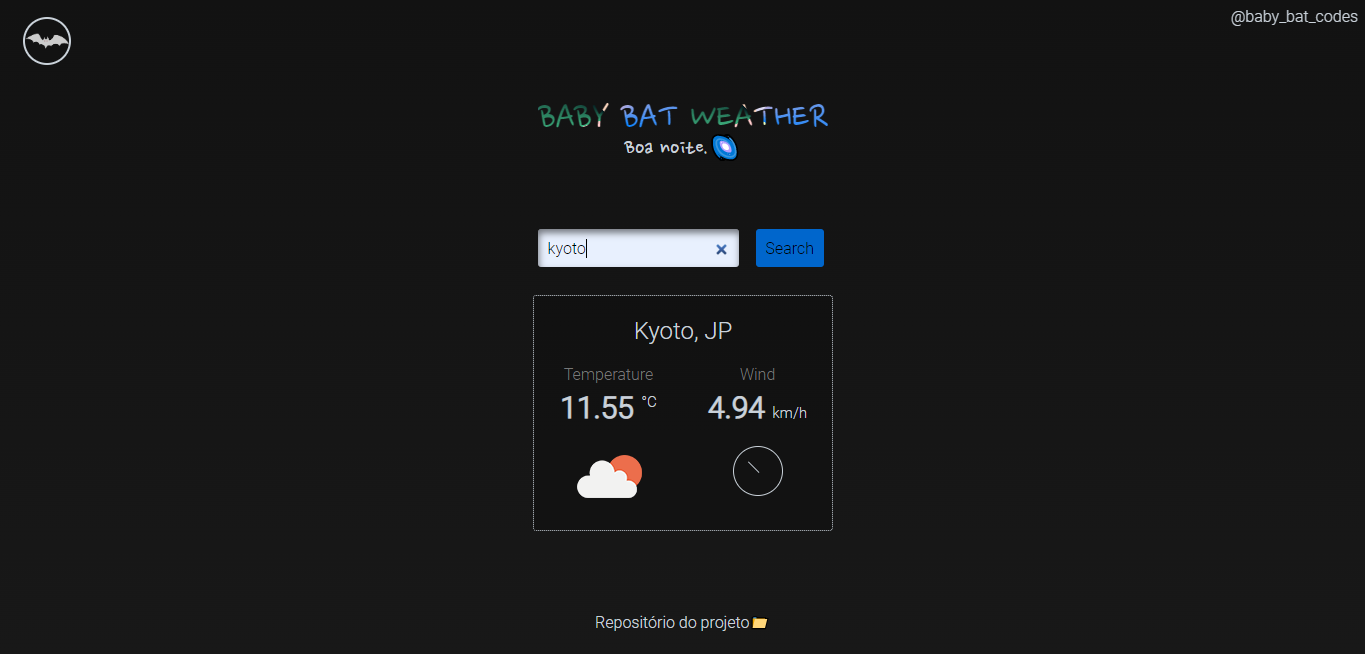
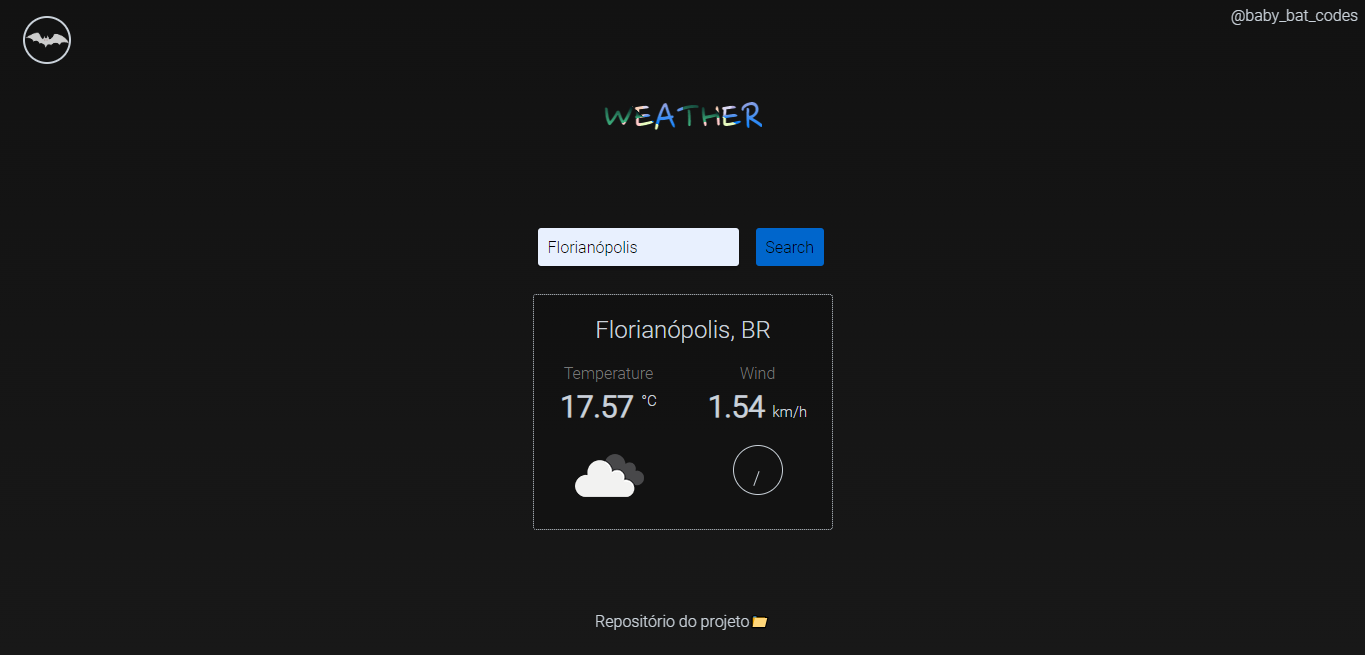
Add files via upload

diff --git a/index.html b/index.html
@@ -49,7 +49,24 @@
         >
       </div>
 
-      <h1 class="gradient-text">WEATHER</h1>
+      <h1 class="gradient-text">BABY BAT WEATHER</h1>
+
+      <div class="salutation">
+        <script language="JavaScript">
+          now = new Date();
+            if (now.getHours() >= 0 && now.getHours() < 5) {
+              document.write("BOA MADRUGADA.☄");
+            } else if (now.getHours() >= 5 && now.getHours() < 12) {
+              document.write("BOM DIA.🌅");
+            } else if (now.getHours() >= 13 && now.getHours() < 17) {
+              document.write("BOA TARDE.⛱");
+            } else if (now.getHours() >= 17 && now.getHours() < 18) {
+              document.write("BOA TARDE.🌇");
+            } else {
+              document.write("Boa noite.🌌");
+            }
+        </script>
+      </div>
 
       <form class="busca">
         <input type="search" id="searchInput" />

diff --git a/css/style.css b/css/style.css
@@ -117,7 +117,7 @@ h1 {
   left: 50%;
   margin-right: -50%;
   transform: translate(-50%);
-  font-size: 3rem;
+  font-size: 2.6rem;
   font-weight: 300;
   font-family: "Nanum Pen Script", cursive;
   line-height: 20vmin;
@@ -178,6 +178,17 @@ h1 {
     background-size: 50%;
     background-position: 0 0;
   }
+}
+
+.salutation {
+  position: absolute;
+  top: 20vh;
+  left: 50%;
+  font-family: "Nanum Pen Script", cursive;
+  font-size: 1.5rem;
+  font-weight: 400;
+  margin-right: -50%;
+  transform: translate(-50%);
 }
 
 .busca {
@@ -320,15 +331,6 @@ h1 {
   100% {
     opacity: 1;
   }
-}
-
-/* Aplica a animação ao objeto */
-.github {
-  animation-name: animacao;
-  animation-duration: 2s;
-  animation-delay: 4s; /* Define um atraso de 2 segundos */
-  opacity: 0; /* Define a opacidade inicial como 0 */
-  animation-fill-mode: forwards;
 }
 
 .github .repository {

diff --git a/js/scrollreveal.js b/js/scrollreveal.js
@@ -1,7 +1,7 @@
 ScrollReveal({ reset: true });
 
 ScrollReveal().reveal(".inboxbaby_bat_codes", {
-  duration: 4000,
+  duration: 3000,
   delay: 4000,
 });
 
@@ -10,7 +10,17 @@ ScrollReveal().reveal(".gradient-text", {
   delay: 1000,
 });
 
+ScrollReveal().reveal(".salutation", {
+  duration: 2000,
+  delay: 1000,
+});
+
 ScrollReveal().reveal(".busca", {
   duration: 2000,
   delay: 2000,
+});
+
+ScrollReveal().reveal(".github", {
+  duration: 3000,
+  delay: 4000,
 });

diff --git a/css/mobile.css b/css/mobile.css
@@ -12,6 +12,11 @@
     font-weight: 300;
   }
 
+  .salutation {
+    position: absolute;
+    top: 15.3vh;
+  }
+
   .busca {
     position: absolute;
     width: 78%;
